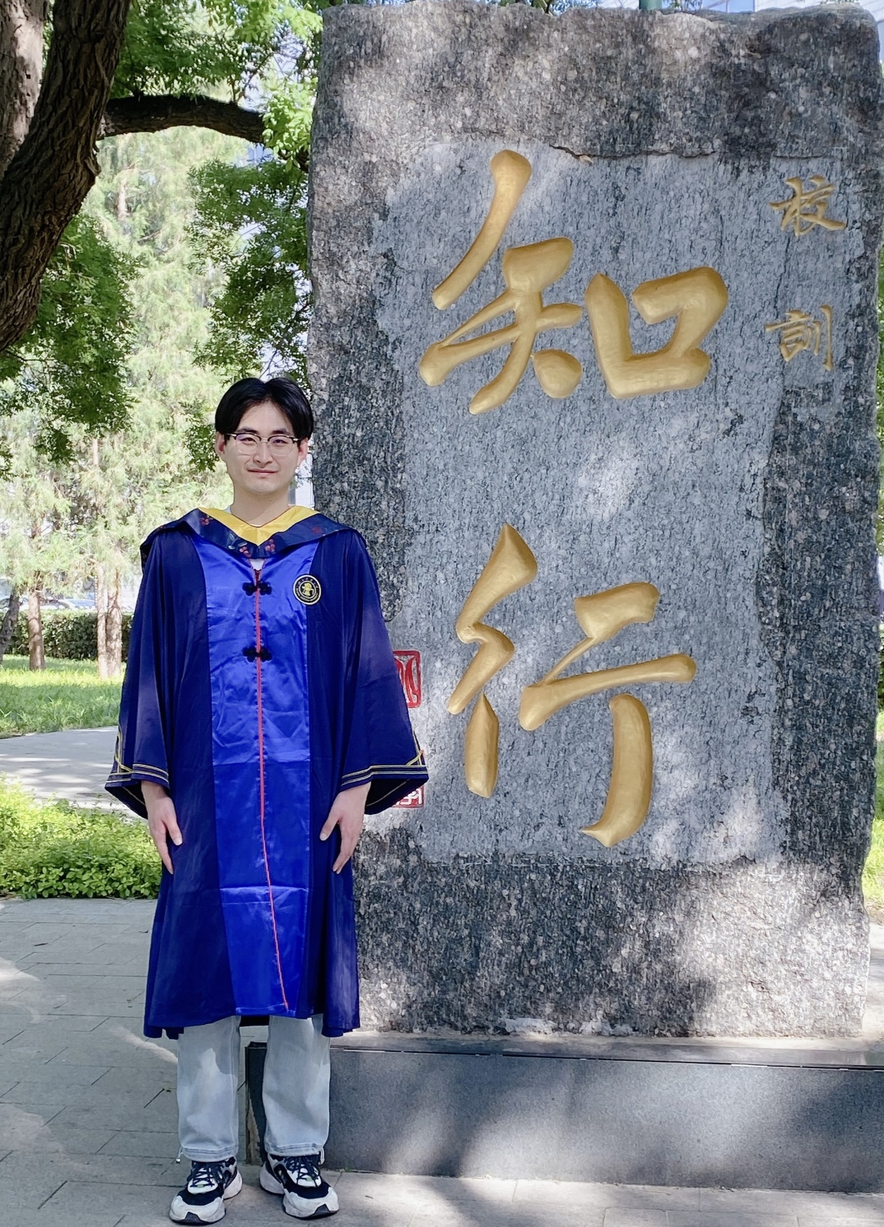
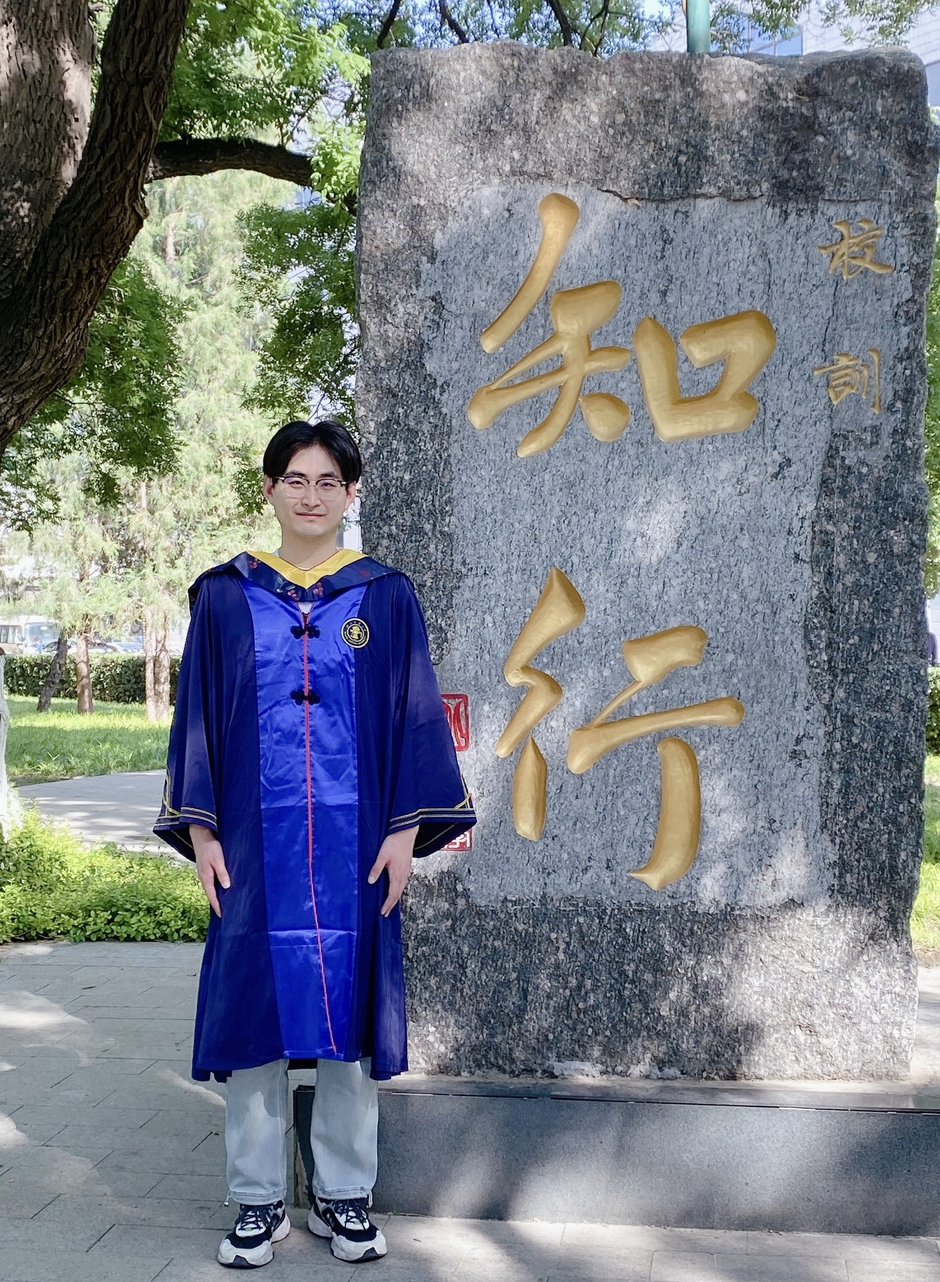
update

diff --git a/index.md b/index.md
@@ -4,7 +4,7 @@ layout: page
 
 ## About Me
 
-<img src="https://yuhan-qiao.github.io/qyh5.jpg" class="floatpic">
+<img src="https://yuhan-qiao.github.io/qyh6.jpg" class="floatpic">
 
 Here is **Yuhan Qiao (John, 乔禹涵)**.<br>
 
